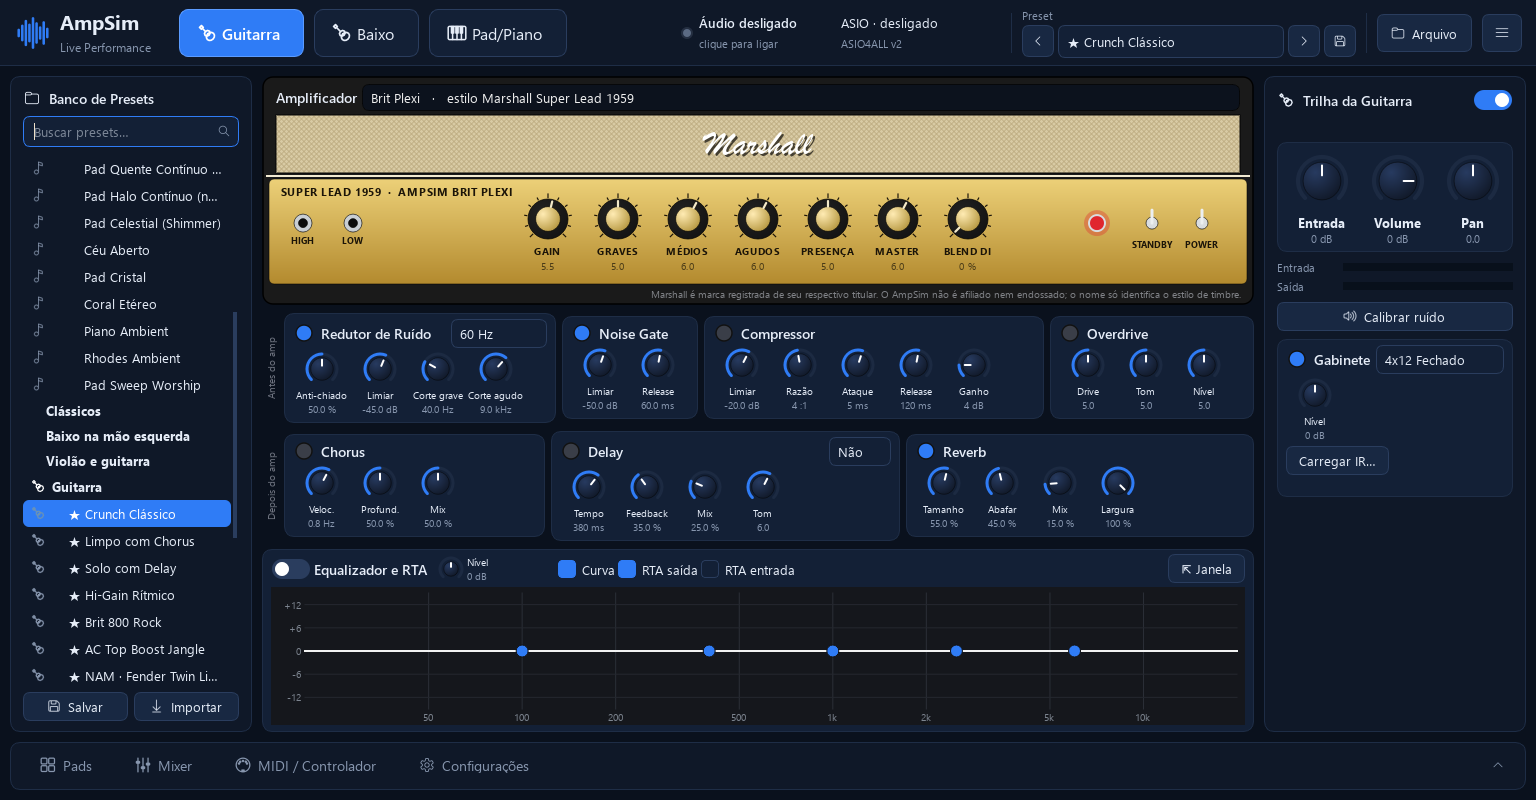
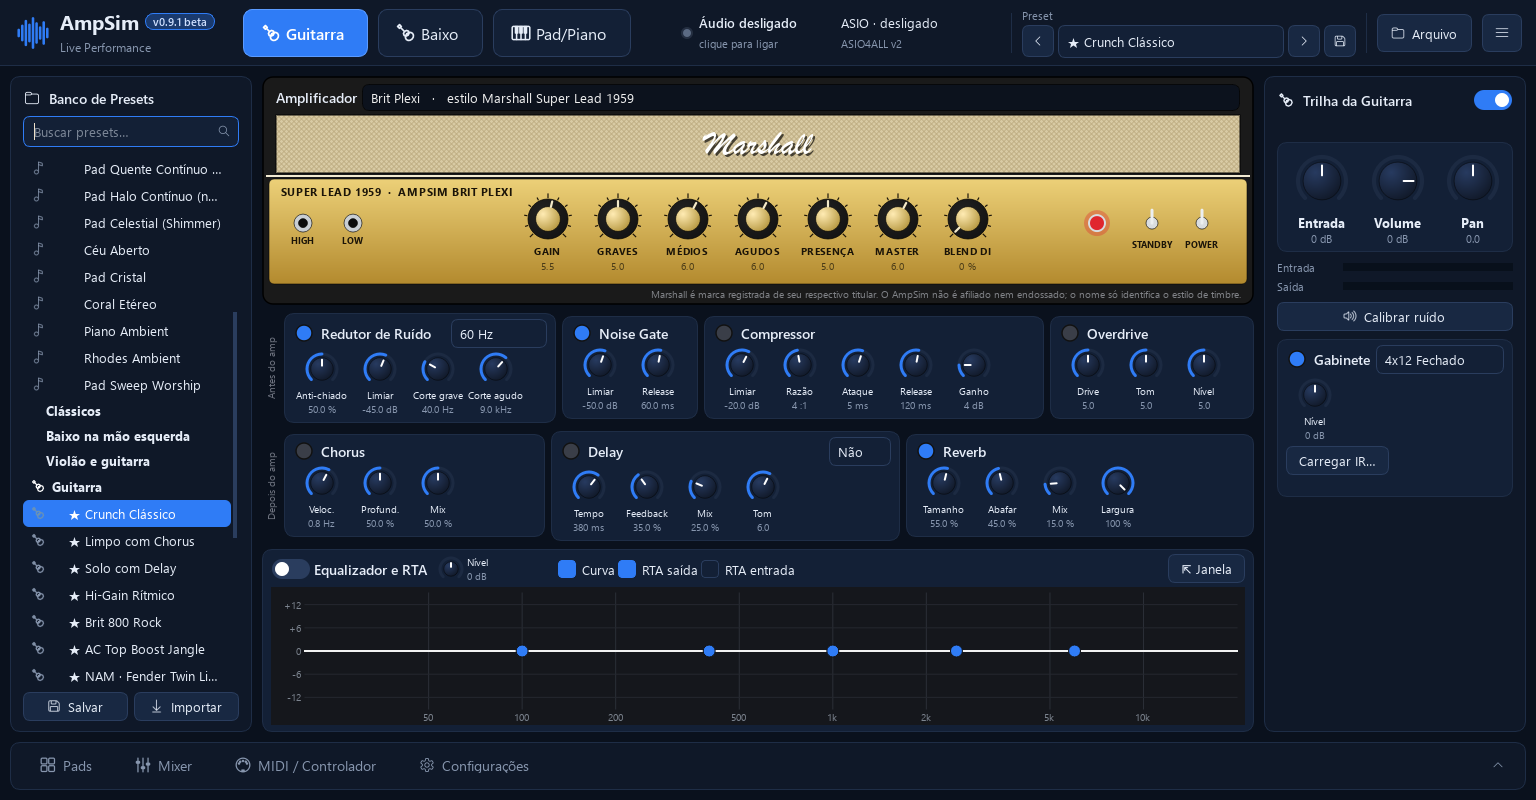
0.9.1: botões de timbre no card do pad contínuo
- Card "Pad contínuo": 10 botões de timbre (Halo, Atmosfera, Quente, Vozes, Cristal, Sweep,
  Vidro, Coral, Cordas, Orquestra) embaixo dos tons; trocar com o pad tocando mantém o tom
  (troca com fade); a aba Pads da barra de baixo fica sincronizada
- Teclas do pad um pouco mais baixas para continuar cabendo em 1536x800
- Teste com clique real nos botões

Changed region(s): [[0.0938, 0.0, 0.4062, 0.0938]]

diff --git a/ampsim/ui/pad_piano.py b/ampsim/ui/pad_piano.py
@@ -24,6 +24,7 @@ from .theme import ACCENT, C
 from .widgets import ArtTile, Knob, PianoWidget, ToggleSwitch
 
 SPLIT_NOTES = list(range(36, 73))
+CONT_SHORT = {"Cordas Lentas": "Cordas", "Pad Orquestra": "Orquestra", "Coral": "Coral"}
 FLATS = {"C#": "Db", "D#": "Eb", "F#": "Gb", "G#": "Ab", "A#": "Bb"}
 SIMPLE = "Teclado simples"
 QUICK = "Atalhos rápidos (qualquer teclado)"        # nome antigo, tratado como teclado simples
@@ -441,7 +442,7 @@ class PadPianoView(QWidget):
         card.setObjectName("card")
         lay = QVBoxLayout(card)
         lay.setContentsMargins(10, 6, 10, 8)
-        lay.setSpacing(6)
+        lay.setSpacing(5)
         head = QHBoxLayout()
         self.cont_title = _label("Pad contínuo", "section")
         head.addWidget(self.cont_title, 1)
@@ -473,10 +474,10 @@ class PadPianoView(QWidget):
             if sharp:
                 flat = FLATS[key]
                 b = QPushButton(f"{key}\n{flat}")
-                b.setFixedSize(44, 40)
+                b.setFixedSize(44, 34)
             else:
                 b = QPushButton(key)
-                b.setFixedSize(44, 54)
+                b.setFixedSize(44, 44)
             b.setFocusPolicy(Qt.NoFocus)
             b.setProperty("sharp", sharp)
             b.setToolTip(f"Pad contínuo em {key}" + (f" / {FLATS[key]}" if sharp else "") +
@@ -491,7 +492,27 @@ class PadPianoView(QWidget):
             else:
                 grid.addWidget(b, 1, 2 * natural_index, 1, 2, Qt.AlignHCenter)
         lay.addLayout(grid)
+        # timbre do pad contínuo: um botão por timbre (o mesmo das telas Pads e do botão direito)
+        sounds = QGridLayout()
+        sounds.setHorizontalSpacing(4)
+        sounds.setVerticalSpacing(4)
+        self.cont_sound_buttons = {}
+        for i, name in enumerate(CONT_PAD_SOUNDS):
+            b = QPushButton(CONT_SHORT.get(name, name.replace("Pad ", "")))
+            b.setObjectName("chip")
+            b.setCheckable(True)
+            b.setFocusPolicy(Qt.NoFocus)
+            b.setFixedHeight(22)
+            b.setToolTip(f"Timbre do pad contínuo: {name}")
+            b.clicked.connect(lambda *_, n=name: self._cont_sound(n))
+            self.cont_sound_buttons[name] = b
+            sounds.addWidget(b, i // 5, i % 5)
+        lay.addLayout(sounds)
         return card
+
+    def _cont_sound(self, name):
+        self.inst.set_cont_sound(name)          # se um tom está tocando, troca com fade
+        self.win.refresh_sounds()
 
     def _cont_key(self, key):
         if key == self.inst.cont_key:
@@ -1068,7 +1089,9 @@ class PadPianoView(QWidget):
         self.oct_label.setText("Oitava" if n >= 2 else "Oitava (teclado)")
         self.fx_title.setText(f"Efeitos da Layer {n}" + ("" if on else " (desligada)"))
 
-        self.cont_title.setText(f"Pad contínuo · {inst.cont_sound}")
+        self.cont_title.setText("Pad contínuo")
+        for name, b in self.cont_sound_buttons.items():
+            b.setChecked(name == inst.cont_sound)
         for key, b in self.cont_buttons.items():
             on = key == inst.cont_key
             sharp = b.property("sharp")

diff --git a/tests/test_ui.py b/tests/test_ui.py
@@ -599,3 +599,22 @@ def test_screen_instrument_matches_settings_box(win):
     assert win.dock.device.currentText() == "M-VAVE SMK-25"
     win.pad_view.set_device("Teclado simples")
     assert win.dock.device.currentText() == "Teclado simples"
+
+
+@needs_sf
+def test_continuous_pad_timbre_buttons(win, app):
+    from ampsim.instruments import CONT_PAD_SOUNDS
+    win.tabs.setCurrentIndex(2)
+    pv = win.pad_view
+    assert list(pv.cont_sound_buttons) == list(CONT_PAD_SOUNDS)
+    QTest.mouseClick(pv.cont_buttons["E"], Qt.LeftButton)          # pad tocando em E
+    QTest.mouseClick(pv.cont_sound_buttons["Pad Cristal"], Qt.LeftButton)
+    assert win.inst.cont_sound == "Pad Cristal"
+    assert win.inst.cont_key == "E"                                  # continua no mesmo tom
+    assert pv.cont_sound_buttons["Pad Cristal"].isChecked()
+    assert sum(b.isChecked() for b in pv.cont_sound_buttons.values()) == 1
+    dock_tile = win.dock.cont_tiles[list(CONT_PAD_SOUNDS).index("Pad Cristal")]
+    assert dock_tile.isChecked()                                     # aba Pads acompanha
+    QTest.mouseClick(win.dock.cont_tiles[0], Qt.LeftButton)          # e o caminho inverso
+    assert pv.cont_sound_buttons[CONT_PAD_SOUNDS[0]].isChecked()
+    win.inst.stop_cont_pad(immediate=True)

diff --git a/ampsim/ui/theme.py b/ampsim/ui/theme.py
@@ -87,6 +87,10 @@ QPushButton#tab:checked {{ background: {accent_soft}; color: white; font-weight:
 QPushButton#power:checked {{ background: #1d5e3b; border-color: {green}; }}
 QPushButton#quit, QPushButton#danger {{ font-weight: 600; }}
 QPushButton::menu-indicator {{ width: 0; image: none; }}
+QPushButton#chip {{ background: {card}; border: 1px solid {border2}; border-radius: 11px; padding: 0 6px;
+    font-size: 8.5pt; color: {dim}; }}
+QPushButton#chip:hover {{ color: {text}; border-color: #3a5687; }}
+QPushButton#chip:checked {{ background: {accent}; border-color: {accent}; color: white; font-weight: 600; }}
 QPushButton#version {{ background: {accent_soft}; border: 1px solid {accent}; border-radius: 8px;
     padding: 0px 7px; font-size: 8pt; font-weight: 600; color: #cfe0ff; }}
 QPushButton#version:hover {{ background: {accent}; color: white; }}

diff --git a/ampsim/version.py b/ampsim/version.py
@@ -6,7 +6,7 @@ O atualizador lê este arquivo no GitHub para dizer qual versão chegou.
 """
 import re
 
-VERSION = "0.9.0"
+VERSION = "0.9.1"
 CHANNEL = "beta"            # "" quando sair da fase de testes
 
 PROJECT = "AmpSim"
